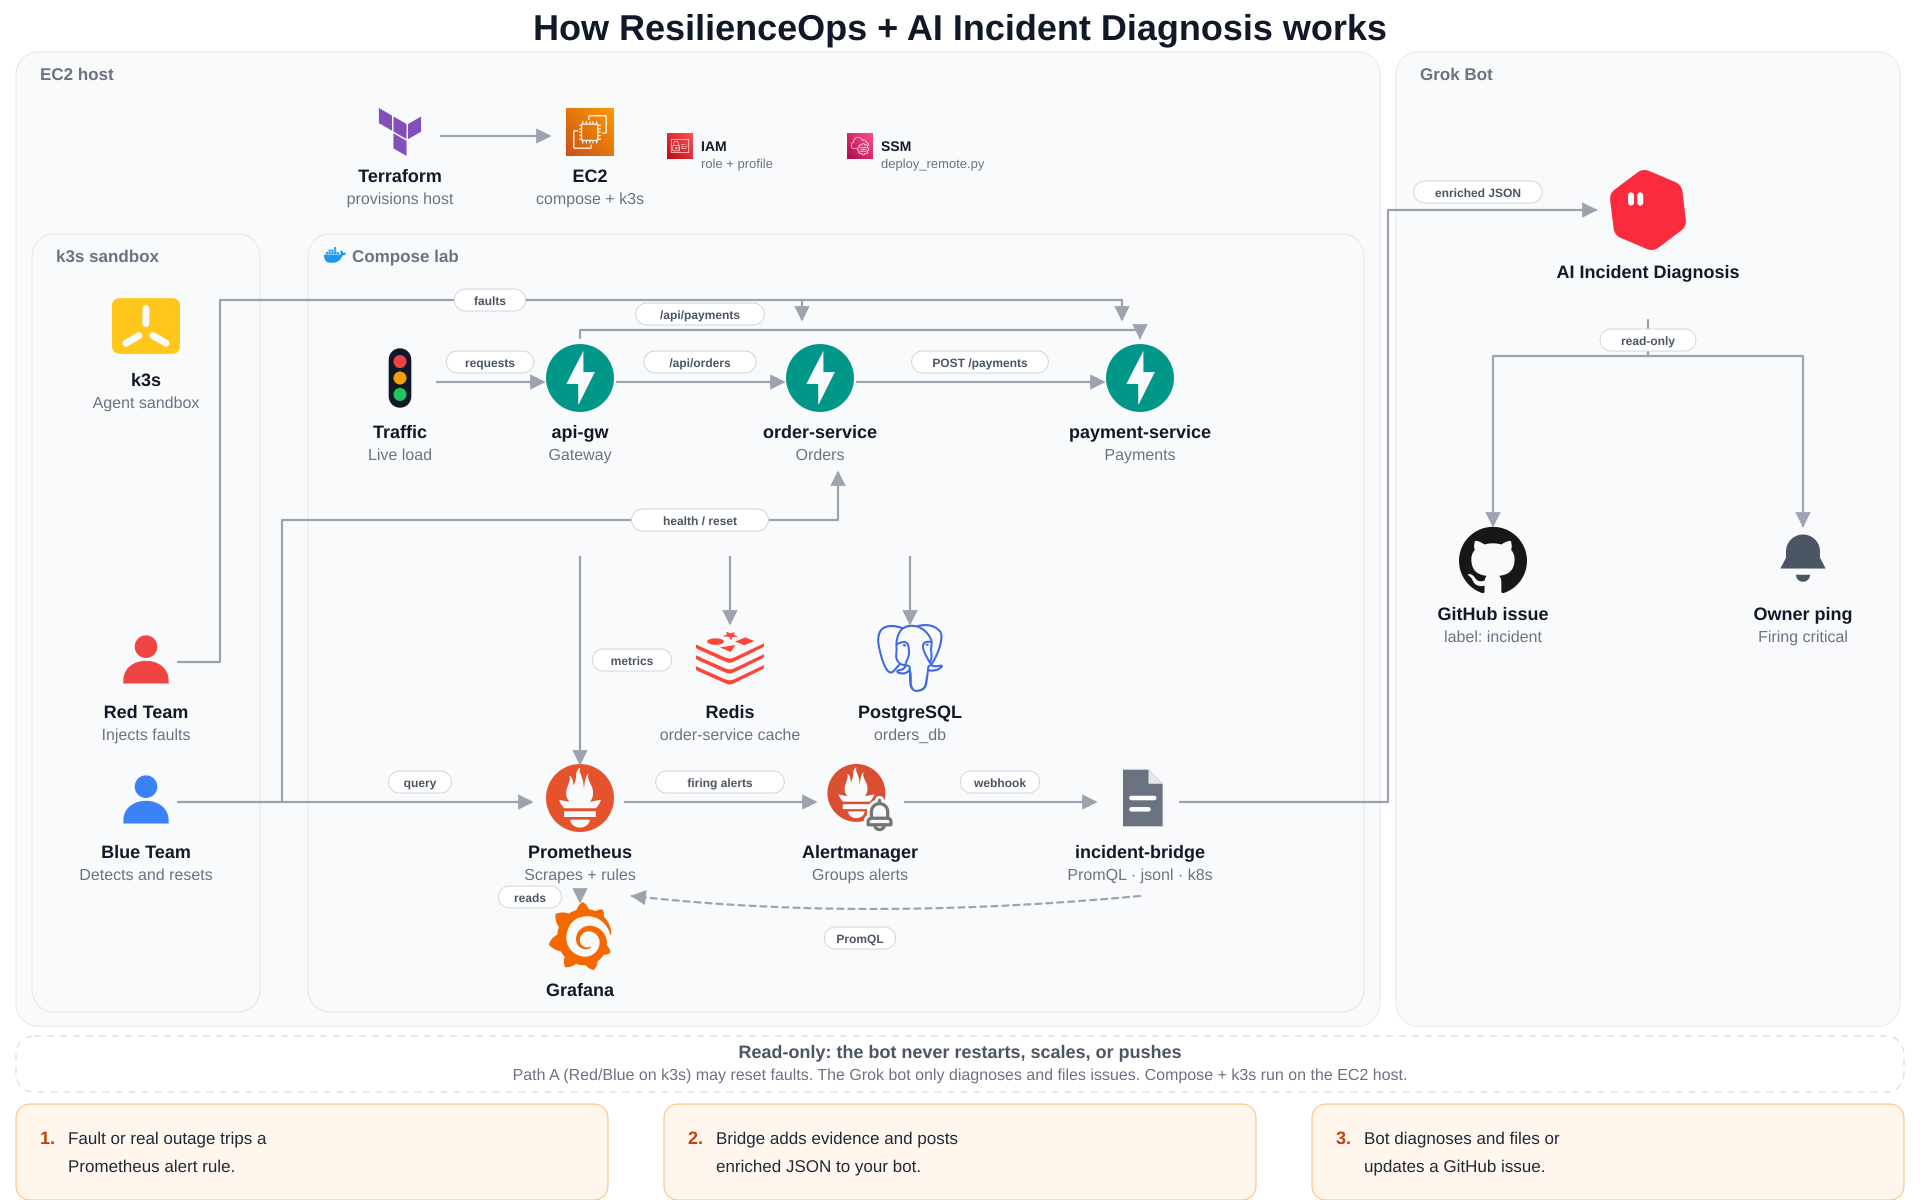
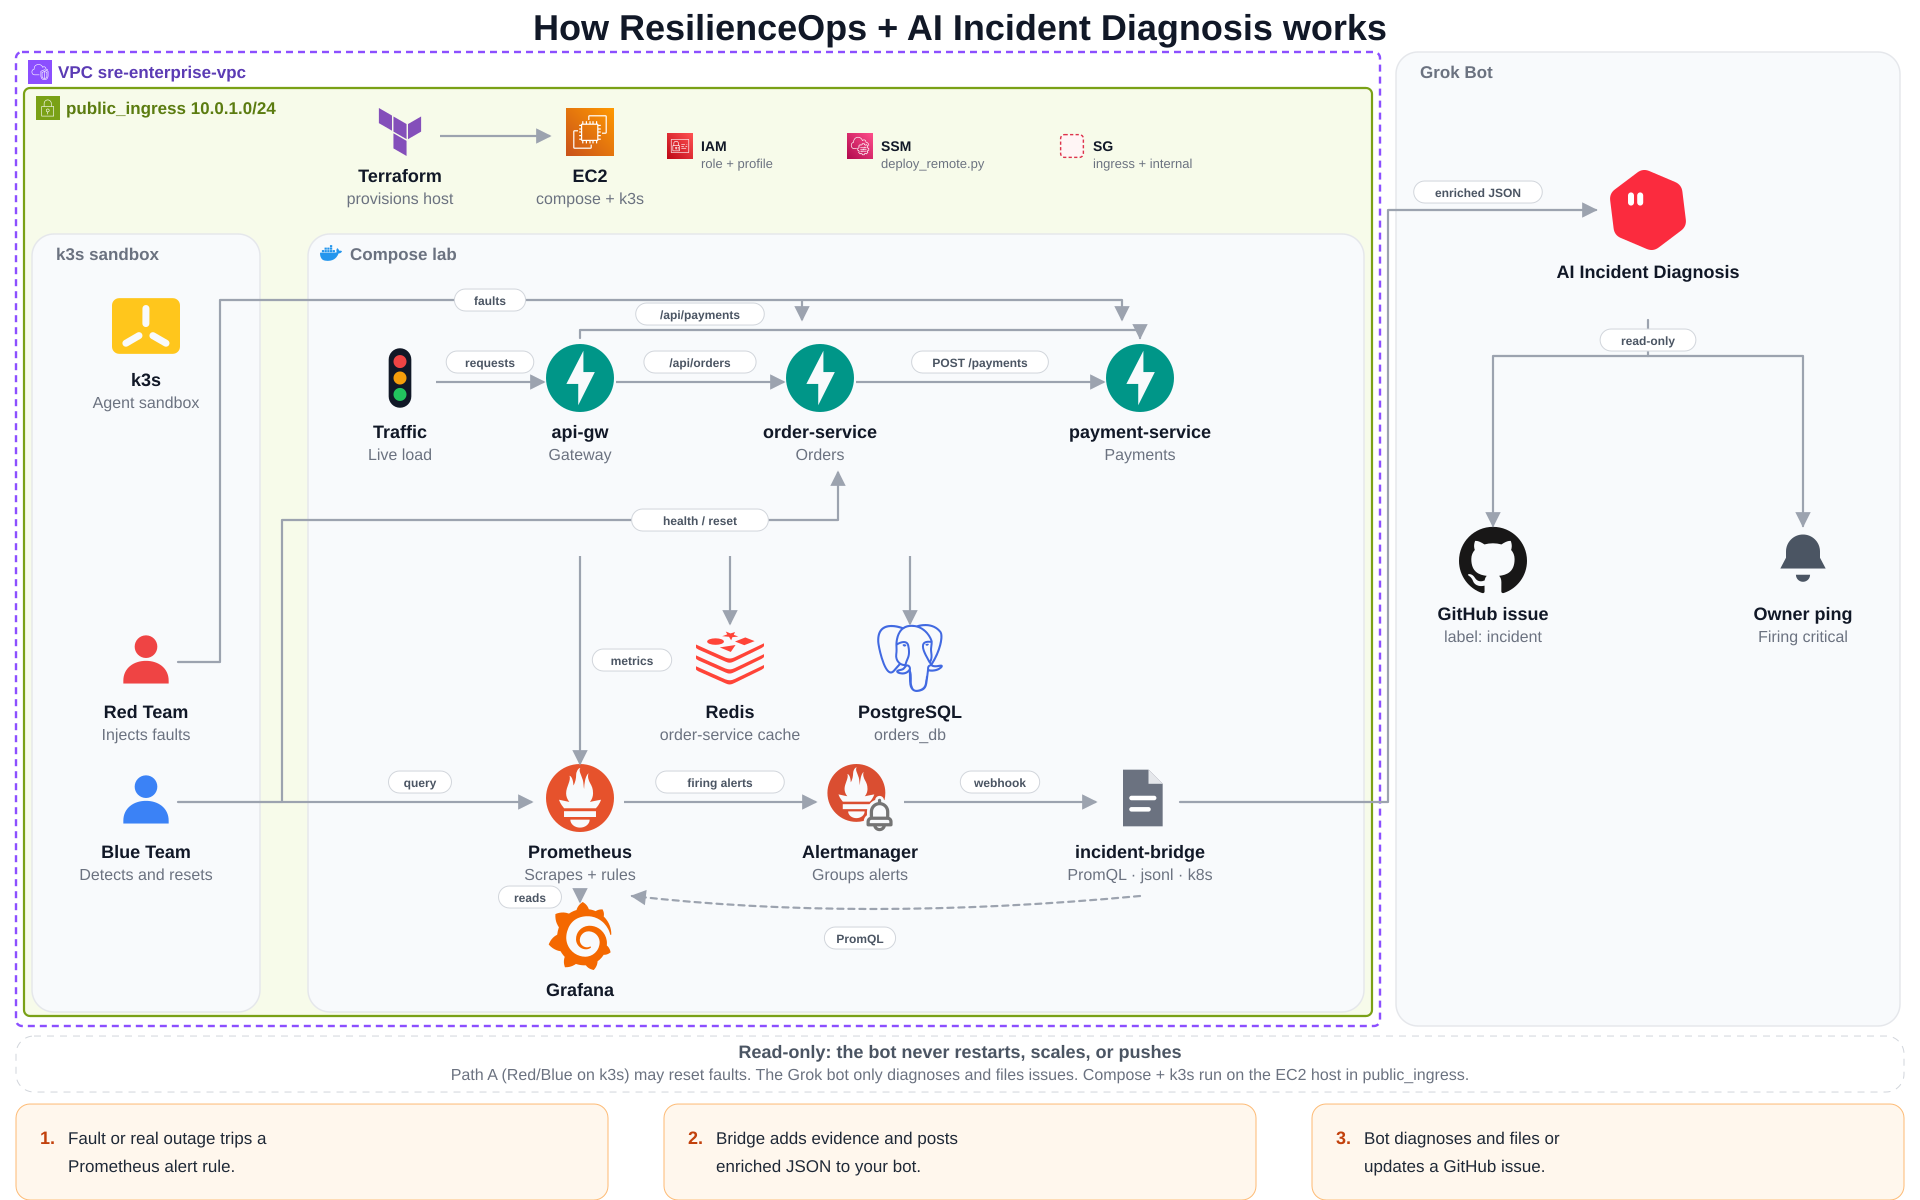
Match the architecture diagram to the Terraform VPC layout.
Wrap the EC2 host in the official AWS Architecture Icons VPC group
and public-subnet boundary, add a dashed security-group marker, and
name sre-enterprise-vpc, the three subnets, and both SGs in the README.

diff --git a/scripts/build_architecture.py b/scripts/build_architecture.py
@@ -36,6 +36,8 @@ ICON_FILES = [
     "aws-ec2",
     "aws-iam",
     "aws-ssm",
+    "aws-vpc",
+    "aws-subnet-public",
     "terraform",
     "alertmanager",
 ]
@@ -116,6 +118,10 @@ def generic_symbols() -> str:
     <symbol id="i-clock" viewBox="0 0 24 24">
       <circle cx="12" cy="12" r="9" fill="none" stroke="#4B5563" stroke-width="1.8"/>
       <path stroke="#4B5563" stroke-width="1.8" stroke-linecap="round" d="M12 7v5l3.2 2"/>
+    </symbol>
+    <symbol id="i-aws-sg" viewBox="0 0 40 40">
+      <rect x="2.5" y="2.5" width="35" height="35" rx="6" fill="#FFF5F5"
+            stroke="#DD344C" stroke-width="2.2" stroke-dasharray="5 3.5"/>
     </symbol>"""
 
 
@@ -200,20 +206,59 @@ def grok_avatar(x: float, y: float, name: str, cap: str) -> str:
 {cap_svg}  </g>"""
 
 
-def group(x: float, y: float, w: float, h: float, label: str, icon: str | None = None) -> str:
+def group(
+    x: float,
+    y: float,
+    w: float,
+    h: float,
+    label: str,
+    icon: str | None = None,
+    style: str | None = None,
+) -> str:
+    # AWS Architecture Icons group treatments (diagram-as-code / PowerPoint toolkit):
+    # VPC = purple dashed #8C4FFF, public subnet = green #7AA116, default = gray card.
+    palettes = {
+        None: {
+            "fill": "#F8FAFC",
+            "stroke": "#E5E7EB",
+            "sw": "1.5",
+            "dash": "",
+            "rx": "22",
+            "cls": "group",
+        },
+        "vpc": {
+            "fill": "#FFFFFF",
+            "stroke": "#8C4FFF",
+            "sw": "2.4",
+            "dash": ' stroke-dasharray="7 5"',
+            "rx": "6",
+            "cls": "group-vpc",
+        },
+        "public_subnet": {
+            "fill": "#F7FBEA",
+            "stroke": "#7AA116",
+            "sw": "2.2",
+            "dash": "",
+            "rx": "6",
+            "cls": "group-subnet",
+        },
+    }
+    pal = palettes[style]
     icon_svg = ""
     text_x = x + 24
+    icon_size = 24 if style in {"vpc", "public_subnet"} else 22
     if icon:
         icon_svg = (
             f'  <use href="#i-{icon}" xlink:href="#i-{icon}" '
-            f'x="{x + 16:.0f}" y="{y + 10:.0f}" width="22" height="22"/>\n'
+            f'x="{x + 12:.0f}" y="{y + 8:.0f}" width="{icon_size}" height="{icon_size}"/>\n'
         )
-        text_x = x + 44
+        text_x = x + 42
     return (
         f'  <rect x="{x:.0f}" y="{y:.0f}" width="{w:.0f}" height="{h:.0f}" '
-        f'rx="22" fill="#F8FAFC" stroke="#E5E7EB"/>\n'
+        f'rx="{pal["rx"]}" fill="{pal["fill"]}" stroke="{pal["stroke"]}" '
+        f'stroke-width="{pal["sw"]}"{pal["dash"]}/>\n'
         f"{icon_svg}"
-        f'  <text x="{text_x:.0f}" y="{y + 28:.0f}" class="group">{label}</text>'
+        f'  <text x="{text_x:.0f}" y="{y + 26:.0f}" class="{pal["cls"]}">{label}</text>'
     )
 
 
@@ -285,18 +330,30 @@ def build() -> str:
     col_bottom = gy + main_h  # 1026
 
     bot_x, bot_w = 1396, 504
-    ec2_x, ec2_w = 16, 1364
+    vpc_x, vpc_w = 16, 1364
 
-    # Group title is the host box; the AWS EC2 mark is the node Terraform points at.
+    # AWS Architecture Icons groups: VPC (purple dashed) wraps the public subnet
+    # (green) which holds the EC2 host. Terraform still has the one provision arrow.
     g_bot = group(bot_x, gy, bot_w, main_h, "Grok Bot")
-    g_ec2 = group(ec2_x, gy, ec2_w, main_h, "EC2 host")
+    g_vpc = group(
+        vpc_x, gy, vpc_w, main_h, "VPC  sre-enterprise-vpc",
+        icon="aws-vpc", style="vpc",
+    )
+    subnet_x, subnet_y = vpc_x + 8, gy + 36
+    subnet_w, subnet_h = vpc_w - 16, main_h - 46
+    g_subnet = group(
+        subnet_x, subnet_y, subnet_w, subnet_h,
+        "public_ingress  10.0.1.0/24",
+        icon="aws-subnet-public", style="public_subnet",
+    )
+    ec2_x, ec2_w = vpc_x, vpc_w
 
     aws_icon = 48
     aws_r = gy + LABEL_BAND + aws_icon + 8  # 164
     tf_x, ec2_node_x = 400, 590
     # IAM / SSM satellites hang off the EC2 node (no arrows — Terraform creates
     # the role and profile; deploy_remote.py uses SSM).
-    iam_x, ssm_x = 680, 860
+    iam_x, ssm_x, sg_x = 680, 860, 1072
 
     nested_y = aws_r + 70  # 234
     nested_h = col_bottom - nested_y - 14  # 746
@@ -333,6 +390,7 @@ def build() -> str:
         node(ec2_node_x, aws_r, "aws-ec2", "EC2", "compose + k3s", size=aws_icon),
         satellite(iam_x, aws_r - aws_icon / 2 + 6, "aws-iam", "IAM", "role + profile"),
         satellite(ssm_x, aws_r - aws_icon / 2 + 6, "aws-ssm", "SSM", "deploy_remote.py"),
+        satellite(sg_x, aws_r - aws_icon / 2 + 6, "aws-sg", "SG", "ingress + internal"),
         node(k3s_cx, k3s_node_y, "k3s", "k3s", "Agent sandbox"),
         node(k3s_cx, r2, "person-red", "Red Team", "Injects faults"),
         node(k3s_cx, r3, "person-blue", "Blue Team", "Detects and resets"),
@@ -360,6 +418,8 @@ def build() -> str:
     <style>
       .title {{ font: 700 36px Arial, Helvetica, sans-serif; fill: #111827; }}
       .group {{ font: 600 17px Arial, Helvetica, sans-serif; fill: #6B7280; }}
+      .group-vpc {{ font: 600 17px Arial, Helvetica, sans-serif; fill: #5B3BB4; }}
+      .group-subnet {{ font: 600 17px Arial, Helvetica, sans-serif; fill: #5B7C10; }}
       .name {{ font: 700 18px Arial, Helvetica, sans-serif; fill: #111827; }}
       .cap {{ font: 16px Arial, Helvetica, sans-serif; fill: #6B7280; }}
       .pill {{ font: 600 12px Arial, Helvetica, sans-serif; fill: #4B5563; }}
@@ -378,7 +438,8 @@ def build() -> str:
   <text x="{W / 2:.0f}" y="40" text-anchor="middle" class="title">How ResilienceOps + AI Incident Diagnosis works</text>
 '''
     ]
-    parts.append(g_ec2)
+    parts.append(g_vpc)
+    parts.append(g_subnet)
     parts.append(g_k3s)
     parts.append(g_lab)
     parts.append(g_bot)
@@ -512,7 +573,7 @@ def build() -> str:
     parts.append(
         f'  <text x="960" y="{gate_y + 44:.0f}" text-anchor="middle" class="gate-sub">'
         "Path A (Red/Blue on k3s) may reset faults. The Grok bot only diagnoses and files issues. "
-        "Compose + k3s run on the EC2 host.</text>"
+        "Compose + k3s run on the EC2 host in public_ingress.</text>"
     )
 
     card_y = gate_y + 68

diff --git a/README.md b/README.md
@@ -45,7 +45,7 @@ All telemetry is streamed in **real time (1-second scrape)** to Grafana.
   - Agents run inside an isolated `sre-agent-sandbox` namespace constrained by Kubernetes resource limits (`cpu: 500m`, `memory: 512Mi`), audited RBAC roles, and egress NetworkPolicies.
   - Interactive operator shell access via `kubectl exec -it deployment/red-team-sandbox -n sre-agent-sandbox -- /bin/bash` with direct cluster connectivity to microservice targets.
 - **Enterprise Cost-Optimized Cloud Deployment**:
-  - Single-file Terraform architecture (`terraform/main.tf`) deploying to AWS with multi-tier VPC segmentation, segregated security groups, and an EC2 host (`t3.small` / `t4g.small` at ~\$0.02/hr).
+  - Single-file Terraform architecture (`terraform/main.tf`) deploying `aws_vpc.sre_vpc` (`sre-enterprise-vpc`, `10.0.0.0/16`) with three subnets (`public_ingress` `10.0.1.0/24`, `app_workloads` `10.0.10.0/24`, `data_persistence` `10.0.20.0/24`), security groups `ingress_sg` (`sre-ingress-sg`) and `internal_app_sg` (`sre-internal-app-sg`), and an EC2 host in `public_ingress` (`t3.small` / `t4g.small` at ~\$0.02/hr).
   - Eliminates AWS NAT Gateways (\$32/mo) and EKS control plane fees (\$72/mo).
   - 1-command deploy and 1-command clean teardown ensuring zero orphan charges.
 
@@ -57,7 +57,7 @@ All telemetry is streamed in **real time (1-second scrape)** to Grafana.
   <img src="docs/images/infraattack_platform_architecture.png" alt="How ResilienceOps + AI Incident Diagnosis works" width="950" />
 </p>
 <p align="center"><b>Figure 1: How ResilienceOps + AI Incident Diagnosis works</b></p>
-<p align="center">The bottom cards are Path B (alert → bridge → bot → GitHub). Red/Blue on k3s is Path A. Compose lab and k3s run on the EC2 host. Grafana only <em>reads</em> Prometheus. order-service owns Redis and <code>orders_db</code>. The figure uses one Red arrow (<em>faults</em>) and one Blue arrow (<em>health / reset</em>); endpoint details (<code>POST /fault/*</code>, <code>tc netem</code>, <code>GET /health</code>, reset) are in the step-by-step below.</p>
+<p align="center">The bottom cards are Path B (alert → bridge → bot → GitHub). Red/Blue on k3s is Path A. Compose lab and k3s run on the EC2 host in subnet <code>public_ingress</code> of VPC <code>sre-enterprise-vpc</code>. Grafana only <em>reads</em> Prometheus. order-service owns Redis and <code>orders_db</code>. The figure uses one Red arrow (<em>faults</em>) and one Blue arrow (<em>health / reset</em>); endpoint details (<code>POST /fault/*</code>, <code>tc netem</code>, <code>GET /health</code>, reset) are in the step-by-step below.</p>
 <p align="center">Source: <a href="docs/architecture.svg"><code>docs/architecture.svg</code></a> (rebuild + render with <code>scripts/render_architecture.sh</code> / <code>scripts/build_architecture.py</code>). Companion mermaid: <a href="docs/architecture.mmd"><code>docs/architecture.mmd</code></a>.</p>
 
 ### Step-by-step flow (matches the code)
@@ -137,7 +137,7 @@ The **Kubernetes Agent Sandbox** provides a zero-blast-radius containment bounda
 | **Container & Cloud** | Docker & Docker Compose | `v2.24+` | Container runtime, resource isolation, and local orchestration |
 | | Certified Kubernetes (`k3s`) | `v1.29+` | Production container orchestration, cgroups, and RBAC sandboxes |
 | | Terraform | `v1.7+` | All-in-one Infrastructure-as-Code for AWS cloud deployment |
-| | AWS (VPC, EC2, IAM, SSM, CloudWatch) | Provider `~> 5.0` | Multi-tier cloud infrastructure host with zero NAT Gateway overhead |
+| | AWS (VPC `sre-enterprise-vpc`, subnets, `ingress_sg` / `internal_app_sg`, EC2, IAM, SSM, CloudWatch) | Provider `~> 5.0` | Multi-tier cloud infrastructure host with zero NAT Gateway overhead |
 
 ---
 
@@ -348,7 +348,19 @@ terraform init
 terraform apply
 ```
 
-Grafana (`3000`) and the API gateway (`8000`) are limited to `allowed_cidr`. Prometheus (`9090`) and SSH (`22`) are **not** opened — use AWS Systems Manager for host access and SSM port forwarding for Prometheus (`127.0.0.1:9090`).
+`terraform/main.tf` creates a dedicated VPC `aws_vpc.sre_vpc` (Name `sre-enterprise-vpc`, CIDR `var.vpc_cidr` default `10.0.0.0/16`) with an internet gateway (`sre-enterprise-igw`), three subnets, a public route table associated only with `public_ingress`, two security groups, an IAM role + `AmazonSSMManagedInstanceCore` + instance profile, and the EC2 host in `public_ingress`:
+
+| Resource | Terraform name | AWS Name / CIDR | What runs there |
+| --- | --- | --- | --- |
+| VPC | `aws_vpc.sre_vpc` | `sre-enterprise-vpc` `10.0.0.0/16` | Boundary for every AWS resource below |
+| Public subnet | `aws_subnet.public_ingress` | `sre-subnet-public-ingress` `10.0.1.0/24` | EC2 host (`map_public_ip_on_launch`) |
+| App subnet | `aws_subnet.app_workloads` | `sre-subnet-app-workloads` `10.0.10.0/24` | Created; nothing is deployed into it |
+| Data subnet | `aws_subnet.data_persistence` | `sre-subnet-data-persistence` `10.0.20.0/24` | Created; nothing is deployed into it |
+| Ingress SG | `aws_security_group.ingress_sg` | `sre-ingress-sg` | Grafana `3000` and API `8000` from `allowed_cidr` |
+| Internal SG | `aws_security_group.internal_app_sg` | `sre-internal-app-sg` | `8001–8002` from `ingress_sg`; self scrape |
+| Host | `aws_instance.sre_host` | `sre-enterprise-platform-host` | Compose + k3s via `user_data`; both SGs attached |
+
+Grafana (`3000`) and the API gateway (`8000`) are limited to `allowed_cidr`. Prometheus (`9090`) and SSH (`22`) are **not** opened — use AWS Systems Manager for host access and SSM port forwarding for Prometheus (`127.0.0.1:9090`). The architecture figure shows the VPC group, the `public_ingress` subnet around the EC2 host, and a security-group marker; `app_workloads` and `data_persistence` are named here and omitted from the figure because they are empty.
 
 Typical outputs:
 

diff --git a/docs/icons/README.md b/docs/icons/README.md
@@ -6,6 +6,7 @@ Icons in this folder are inlined into `docs/architecture.svg` by
 | File | Source |
 | --- | --- |
 | `aws-ec2.svg`, `aws-iam.svg`, `aws-ssm.svg` | [AWS Architecture Icons](https://aws.amazon.com/architecture/icons/) (2D service icons). AWS, the AWS logo, and AWS service names are trademarks of Amazon.com, Inc. or its affiliates. |
+| `aws-vpc.svg`, `aws-subnet-public.svg` | AWS Architecture Icons **group** marks (`Virtual-private-cloud-VPC_32`, `Public-subnet_32`). The diagram draws the matching VPC (purple dashed) and public-subnet (green) group boundaries; the security-group marker is the official dashed-red group treatment (no 32px group icon in the current package). |
 | `k3s.svg` | Official k3s mark from [CNCF artwork](https://github.com/cncf/artwork) (`projects/k3s`). |
 | `alertmanager.svg` | Grafana Alertmanager data-source mark (Prometheus flame + bell) from the Grafana project. |
 | `docker.svg`, `fastapi.svg`, `redis.svg`, `postgresql.svg`, `prometheus.svg`, `grafana.svg`, `kubernetes.svg`, `github.svg`, `terraform.svg` | Official brand glyphs via [Simple Icons](https://simpleicons.org/) (CC0 1.0), colored with each project’s documented brand hex. |
